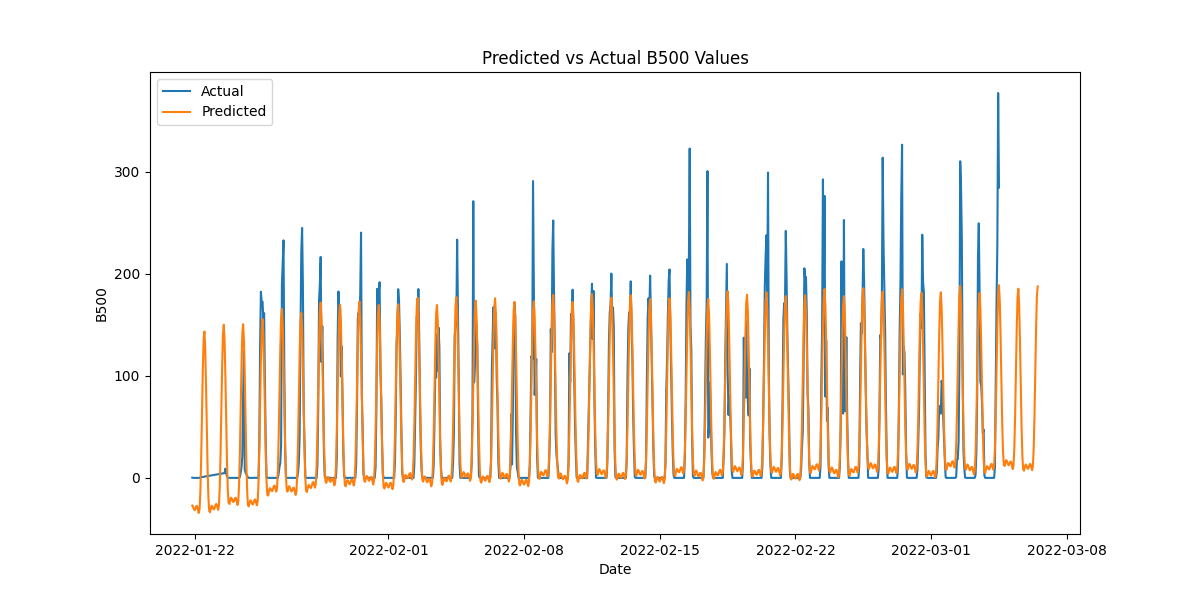
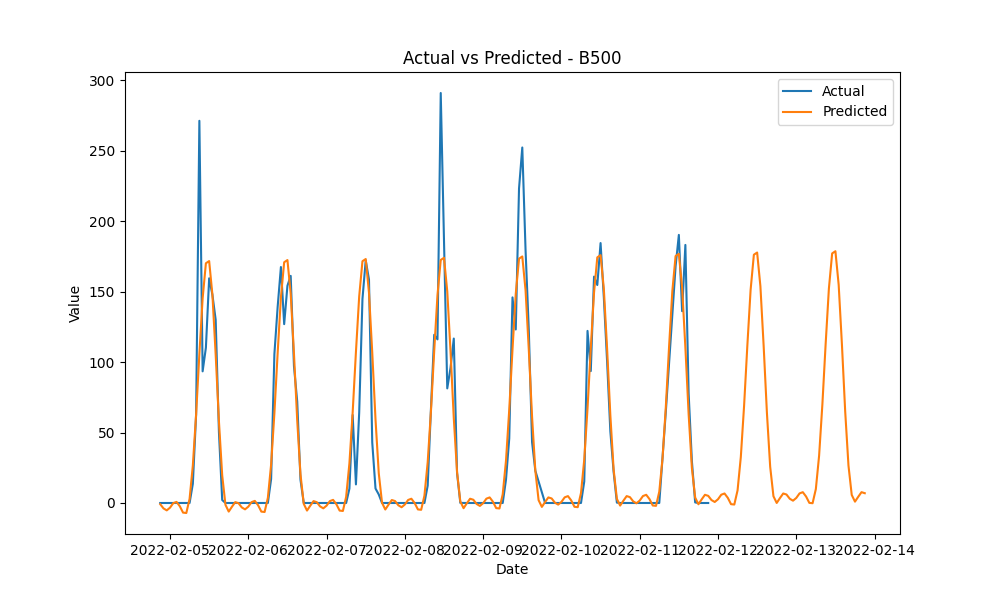
Updated prophet + plots

diff --git a/prophet_analysis.py b/prophet_analysis.py
@@ -1,18 +1,43 @@
 import pandas as pd
-from matplotlib import pyplot as plt
-
 from prophet import Prophet
-from prophet.diagnostics import cross_validation
+from prophet.diagnostics import cross_validation, performance_metrics
+from prophet.plot import plot_cross_validation_metric
+from matplotlib import pyplot as plt
+import os
+
+df = pd.read_csv('SensorMLDataset_small.csv')  # input the path to the CSV file here
+labels = df.columns
 
 
-def predict(df, start, end):
-    labels = df.columns
+def predict(start=0, end=168, week=0, echo=True):
+    """Trains a Prophet model on the variables from the provided CSV file
+        Parameters
+        ----------
+        start : int, optional
+            The start row from the CSV file from which the training begins (default is 0)
+        end : int, optional
+            The end row from the CSV file up to which the model trains (default is 168, as the current CSV
+            file has hourly data, meaning first week)
+        week: int, optional
+            Train on the data from the specified week (default is 0). If provided, it ignores start and end parameters
+        echo: bool, optional
+            Enables or disables prediction outputs (default is True)
+        Returns
+        -------
+        list
+            a list of the models trained on the variables from the CSV file
+        """
     df[labels[0]] = pd.to_datetime(df[labels[0]], format='%m/%d/%Y %H:%M')
-
-    models = []  # pentru fiecare parametru, adaugam modelul antrenat intr-o lista
+    if week - 1 > df.__len__() // 168:
+        print("Not enough weeks in the dataset. Defaulting to start, end parameters.")
+    else:
+        if week != 0:
+            start = (week - 1) * 168
+            end = start + 169
+    models = []  # for each column, train the model on that variable and add it to the list
     for label in labels[1:]:
         df_temp = df[[labels[0], label]]
-        print(f"----------- {label} ------------")
+
         ts = df_temp[start:end]
         ts.columns = ['ds', 'y']
 
@@ -21,37 +46,76 @@ def predict(df, start, end):
 
         future = model.make_future_dataframe(periods=48, freq='H')
         forecast = model.predict(future)
-        print(forecast[['ds', 'yhat']].tail(48))
-
-        # Adăugăm coloanele 'yhat' (valoarea prezisă) și 'y' (valoarea reală)
-        df_pred = forecast[['ds', 'yhat']].set_index('ds')
-        df_real = ts.set_index('ds')
-        df_compare = df_real.join(df_pred, how='outer')
 
         file_path = f"predicted_vs_actual_plots/predicted_vs_actual_{label}_values.png"
 
-        plt.figure(figsize=(12, 6))
-        plt.plot(df_compare.index, df_compare['y'], label='Actual')
-        plt.plot(df_compare.index, df_compare['yhat'], label='Predicted')
-        plt.xlabel('Date')
-        plt.ylabel(label)
-        plt.title(f'Predicted vs Actual {label} Values')
-        plt.legend()
-        plt.savefig(file_path)
-        plt.show()
-        plt.close()
+        if echo:
+            forecast.rename(columns={"ds": "Timestamp", "yhat": "Predicted Value"}, inplace=True)
+            print(f"----------- {label} ------------")
+            print(forecast[['Timestamp', 'Predicted Value']].tail(48))
+            print(f"forecast HEAD: {forecast.head()}")
+            plt.figure(figsize=(10, 6))
+            plt.plot(ts['ds'], ts['y'], label='Actual')
+            plt.plot(forecast['Timestamp'], forecast['Predicted Value'], label='Predicted')
+            plt.xlabel('Date')
+            plt.ylabel('Value')
+            plt.title(f'Actual vs Predicted - {label}')
+            plt.legend()
+            plt.savefig(file_path)
+            plt.show()
+            plt.close()
 
         models += [model]
 
-    return models
+    return models  # return trained models
+
+
+def get_cross_validation(echo=True):
+    """Computes the error at training using time-series cross validation on the entire dataset.
+    It outputs the calculated error plots for each variable as a .PNG file
+    Parameters
+    ----------
+        echo: bool, optional
+            Enables or disables computed errors outputs (default is True)
+    """
+    models = predict(0, df.__len__(), echo=False)
+    print("----- Computing time series cross validation -----")
+    df_cv = []
+    for model in models:
+        df_cv += [
+            cross_validation(model, initial='168 hours', period='168 hours', horizon='48 hours')]
+    i = 1
+    for df_cross_err in df_cv:
+        df_p = performance_metrics(df_cross_err)
+        if echo:
+            print(f"---------{labels[i]}---------\n", df_p.tail(1))
+        try:
+            plot_cross_validation_metric(pd.DataFrame(df_cross_err), metric='mape')
+            plt.title(f'MAPE - {str(labels[i])}')
+            plt.xlabel('Horizon')
+            plt.ylabel('MAPE')
+            folder_path = 'cross_validation_values'
+            if not os.path.exists(folder_path):
+                os.makedirs(folder_path)
+            plt.savefig(os.path.join(folder_path, f"MAPE_{str(labels[i])}.png"))
+            plt.close()
+            i += 1
+        except TypeError:
+            plot_cross_validation_metric(pd.DataFrame(df_cross_err), metric='mae')
+            plt.title(f'MAE - {str(labels[i])}')
+            plt.xlabel('Horizon')
+            plt.ylabel('MAE')
+            folder_path = 'cross_validation_values'
+            if not os.path.exists(folder_path):
+                os.makedirs(folder_path)
+            plt.savefig(os.path.join(folder_path, f"MAE_{str(labels[i])}.png"))
+            plt.close()
+            i += 1
 
 
 def main():
-    df = pd.read_csv('SensorMLDataset_small.csv')
-    models = predict(df, 0, 1000)
-
-    for model in models:
-        df_cv = cross_validation(model, initial='168 hours', period='168 hours', horizon='48 hours')
+    predict(week=3)
+    get_cross_validation()
 
 
 if __name__ == '__main__':

diff --git a/tema1.py b/tema1.py
@@ -85,3 +85,7 @@ if __name__ == '__main__':
     calculate_heatmaps(df)
     calculate_boxplots(df)
     calculate_correlation_matrix(df)
+
+
+
+
